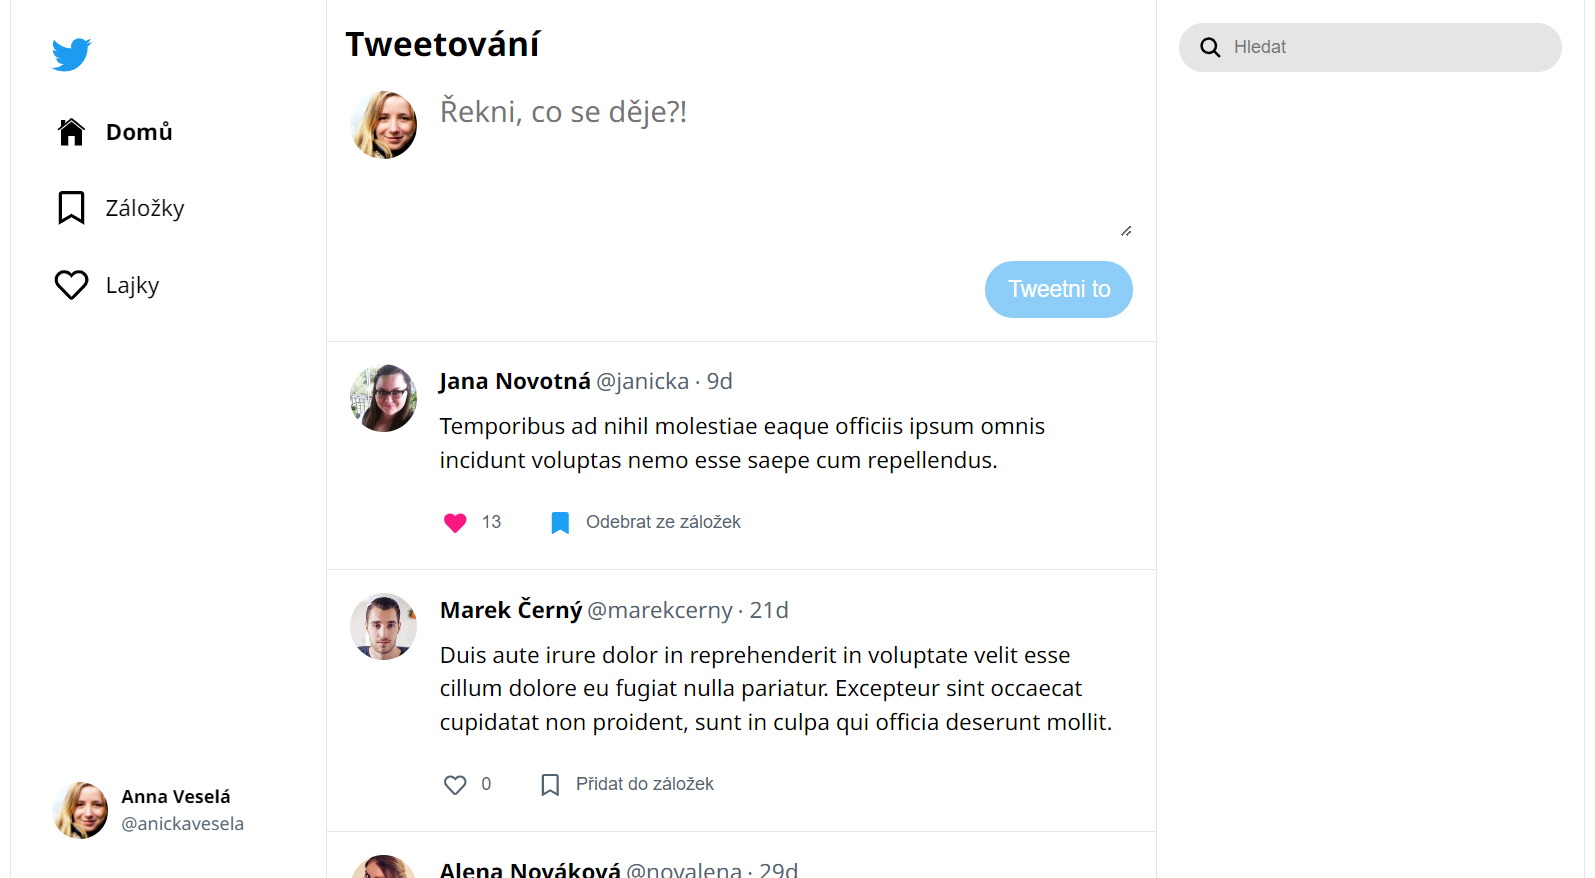
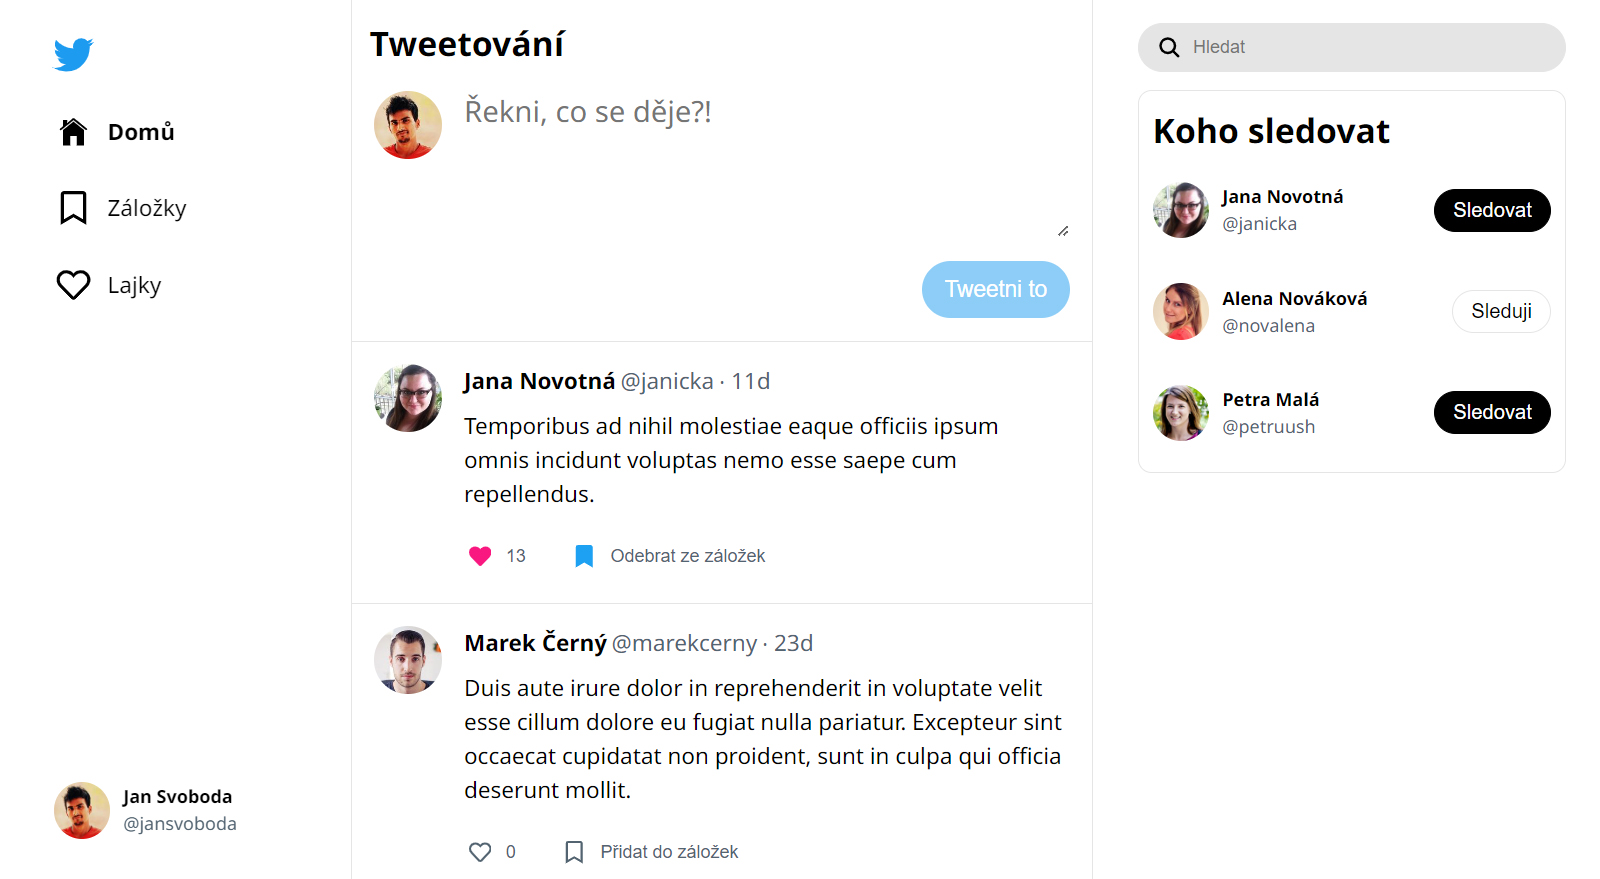
up: readme text

diff --git a/README.md b/README.md
@@ -1,35 +1,37 @@
-# Projekt Tweetnito
+# Projekt Tweetování
 
 Aplikace pro sdělení krátké zprávy na způsob Twitteru.
 
 **Na tomto projektu aktuálně pracuju.**
 
-
->- programuju v **Reactu** s **TypeScriptem**
->- využívám bundler **Vite**
->- data ukládám do **sesionStorage**
-
+> - programuju v **Reactu** s **TypeScriptem**
+> - využívám bundler **Vite**
+> - data ukládám do **sesionStorage**
 
 ## Zadání
+
 Vytvořit jednoduchou aplikaci napodobující Twitter. Základní funkcí bude, aby uživatel mohl zadat krátký text do textového políčka, který se následně objeví v seznamu zveřejněných zpráv. Jakmile tuto funkcionalitu dokončíte, rozšiřte aplikaci o další funkce dle vlastních nápadů.
 
 K dispozici je hotový statický HTML a CSS návrh [zde](https://github.com/Czechitas-podklady-WEB/cvrlikani-zadani).
 
-
 ## Abstrakt
+
 Programuju aplikaci s dynamickým obsahem rozdělenou do několika komponent.  
 Využila jsem připravený [návrh](https://github.com/Czechitas-podklady-WEB/cvrlikani-zadani), který si upravuju svým potřebám.
 
 ### Aktuální funkce aplikace:
+
 - na stránce **Domů** zobrazuje výchozí zprávy uživatelů seřazeny chronologicky od nejnovějšího
 - v **levém Sidebaru** zobrazuje náhodně vygenerovaný profil uživatele, pod kterým lze:
   - **přidat** nový příspěvek
   - **mazat** vlastní příspěvek
   - **přidávat/odebírat** příspěvky ze záložky
   - **lajkovat** příspěvky
-- v **pravém Sidebaru** zobrazuje vyhledávací pole, přes které lze filtrovat zprávy podle hledaného výrazu
-- na stránce **Záložky** zobrazuje uložené příspěvky - seřazeny chronologicky podle času přidání do záložky od nejnovějšího
-- na stránce **Lajky** zobrazuje nejvíce oblíbené příspěvky - seřazeny chronologicky podle času lajknutí od nejnovějšího
+- v **pravém Sidebaru** zobrazuje:
+  - **vyhledávací pole**, přes které lze filtrovat zprávy podle hledaného výrazu
+  - náhodně vygenerovaný **seznam 3 profilů**, které lze sledovat/nesledovat
+- na stránce **Záložky** zobrazuje uložené příspěvky náhodně generovaného profilu uživatele - seřazeny chronologicky podle času přidání do záložky od nejnovějšího
+- na stránce **Lajky** zobrazuje oblíbené příspěvky náhodně generovaného profilu uživatele - seřazeny chronologicky podle času lajknutí od nejnovějšího
 
 Na dalších funcionalitách aplikace pracuju.
 
